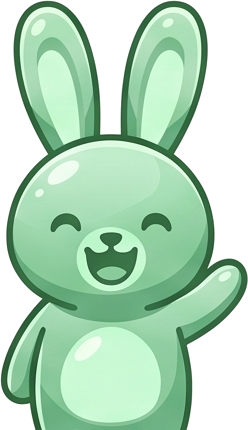
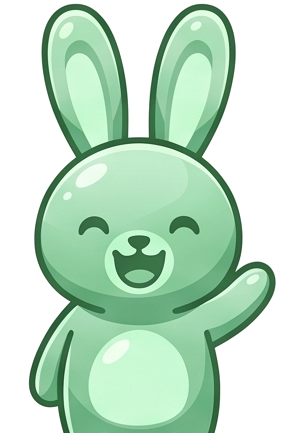
fix: stop mascot images from being squashed into a square box
prepare-mascot.mjs now composites all four mood PNGs onto one shared
transparent canvas (sized from the widest/tallest processed pose) so
every output has identical dimensions. Updated the learn pages' img
attributes and .learn-mascot CSS to match that ratio instead of
forcing 96x96/140x140, with object-fit: contain as a safety net.

diff --git a/src/styles/learn.css b/src/styles/learn.css
@@ -18,9 +18,23 @@
   font-size: 0.9375rem;
 }
 
+/* น้องหยกทุกท่าตอนนี้มีสัดส่วนเดียวกัน (303x435, ~0.697) จาก prepare-mascot.mjs
+   width/height ใน markup ทำให้เบราว์เซอร์จองพื้นที่กล่องได้ก่อนรูปโหลดเสร็จ (ไม่มี layout shift)
+   object-fit: contain กันไว้เผื่ออนาคตมีรูปสัดส่วนอื่นหลุดเข้ามา จะย่อพอดีกรอบแทนการยืด */
 .learn-mascot {
   display: block;
+  width: 96px;
+  height: 138px;
+  object-fit: contain;
   margin: var(--space-2) auto var(--space-3);
+}
+
+/* หน้าจอผลลัพธ์คือจังหวะที่มาสคอตเด่นสุด และสลับท่า clear/wrong ตอน render ผลใหม่
+   (ดู play.js) กล่องขนาดคงที่ตรงนี้ทำให้สลับท่าแล้วเลย์เอาต์ไม่กระโดด */
+.learn-mascot--result {
+  width: 140px;
+  height: 201px;
+  margin: 0 auto var(--space-3);
 }
 
 .learn-title {

diff --git a/src/learn/play.html b/src/learn/play.html
@@ -28,7 +28,7 @@
     </section>
 
     <section id="result-view" hidden style="text-align: center;">
-      <img id="result-mascot" width="140" height="140" alt="" />
+      <img id="result-mascot" class="learn-mascot learn-mascot--result" width="140" height="201" alt="" />
       <h1 id="result-title"></h1>
       <p id="result-stars" class="stars" style="font-size: 2rem;"></p>
       <p id="result-score"></p>
@@ -38,7 +38,7 @@
     </section>
 
     <section id="empty-state" class="path-empty" hidden>
-      <img id="empty-mascot" class="learn-mascot" width="96" height="96" alt="" />
+      <img id="empty-mascot" class="learn-mascot" width="96" height="138" alt="" />
       <p id="empty-message" class="hint"></p>
       <a id="empty-back" class="btn-chunky path-empty-link" href="#">กลับเส้นทางด่าน</a>
     </section>

diff --git a/src/learn/index.html b/src/learn/index.html
@@ -13,7 +13,7 @@
 <body>
   <main class="learn-main">
     <p><a id="back-link" class="learn-back" href="#">← กลับหน้าหลัก</a></p>
-    <img id="mascot" class="learn-mascot" width="96" height="96" alt="น้องหยกทักทาย" />
+    <img id="mascot" class="learn-mascot" width="96" height="138" alt="น้องหยกทักทาย" />
     <h1 class="learn-title">วันนี้อยากฝึกอะไรดี?</h1>
     <p id="loading-note" class="hint">กำลังโหลด…</p>
     <div id="choices" class="choice-list"></div>

diff --git a/src/learn/path.html b/src/learn/path.html
@@ -22,7 +22,7 @@
     <p id="loading-note" class="hint">กำลังโหลด…</p>
 
     <div id="empty-state" class="path-empty" hidden>
-      <img id="empty-mascot" class="learn-mascot" width="96" height="96" alt="น้องหยกยิ้ม" />
+      <img id="empty-mascot" class="learn-mascot" width="96" height="138" alt="น้องหยกยิ้ม" />
       <p id="empty-message" class="hint"></p>
       <a id="empty-back" class="btn-chunky path-empty-link" href="#">กลับไปเลือกบทเรียน</a>
     </div>
